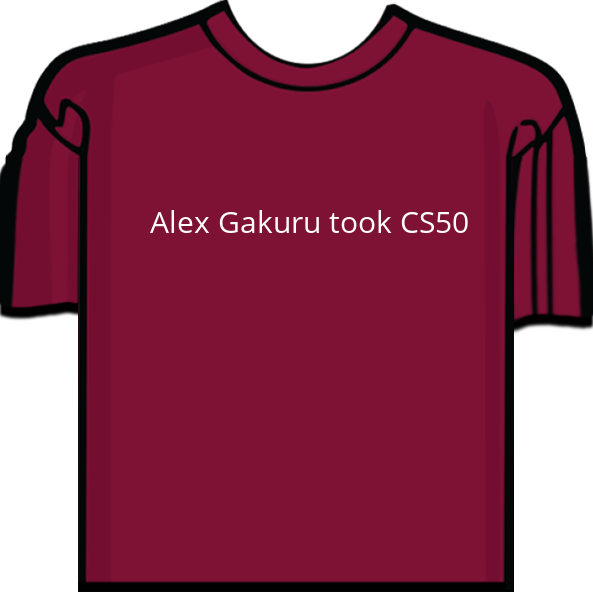
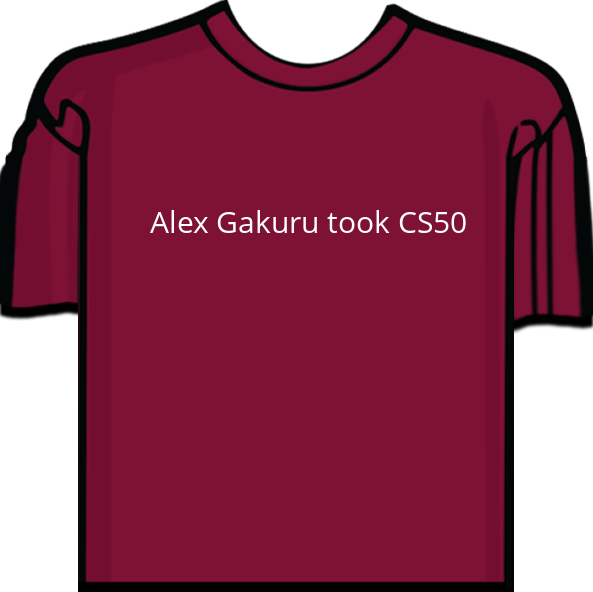
prompt user for name

Changed region(s): [[0.3339, 0.3345, 0.7892, 0.3953]]

diff --git a/shirtificate.py b/shirtificate.py
@@ -26,7 +26,7 @@ class PDF(FPDF):
 def main():
     shirtificate = Shirtificate()
     shirt = shirtificate.open_shirt("shirtificate.png")
-    shirtificate.print_name_to_shirt(shirt, 'Alex Gakuru')
+    shirtificate.print_name_to_shirt(shirt, input("Name: "))
 
 if __name__ =="__main__":
     main()
